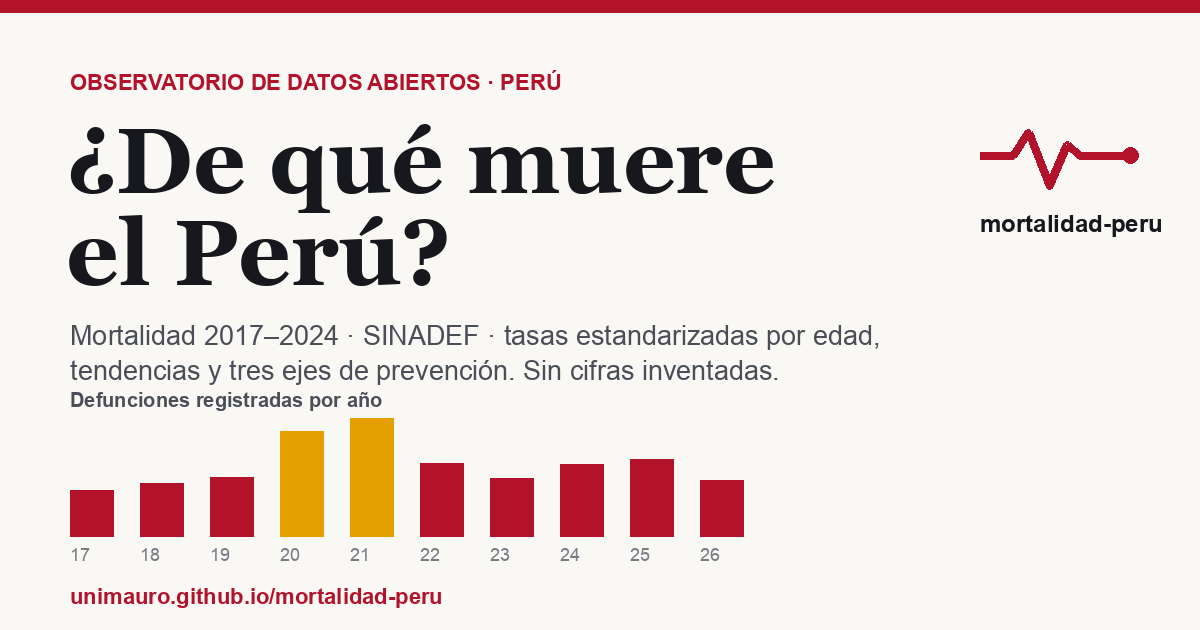
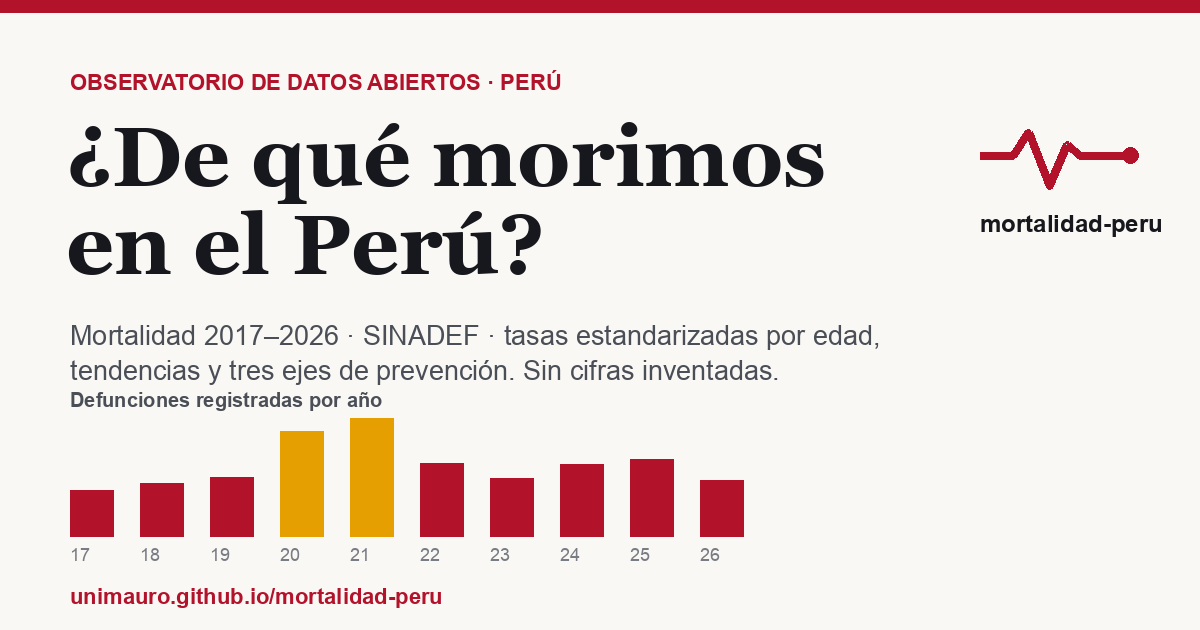
título: «¿De qué morimos en el Perú?» (hero, OG, metadatos) y años 2017–2026 en descripciones

Changed region(s): [[0.0617, 0.181, 0.7092, 0.4524], [0.2467, 0.5127, 0.2775, 0.5429]]

diff --git a/index.html b/index.html
@@ -4,22 +4,22 @@
 <meta charset="utf-8">
 <meta name="viewport" content="width=device-width,initial-scale=1,viewport-fit=cover">
 <title>Observatorio de Mortalidad del Perú</title>
-<meta name="description" content="¿De qué muere el Perú? Series anuales de mortalidad (SINADEF 2017–2024) con tasas estandarizadas por edad, tendencias y tres ejes de prevención: metabólico, criminalidad y accidentes. Datos oficiales, sin cifras inventadas.">
+<meta name="description" content="¿De qué morimos en el Perú? Series anuales de mortalidad (SINADEF 2017–2026) con tasas estandarizadas por edad, tendencias y tres ejes de prevención: metabólico, criminalidad y accidentes. Datos oficiales, sin cifras inventadas.">
 <link rel="canonical" href="https://unimauro.github.io/mortalidad-peru/">
 <meta name="theme-color" content="#b3122b">
 <!-- Open Graph -->
 <meta property="og:type" content="website">
 <meta property="og:locale" content="es_PE">
 <meta property="og:site_name" content="Observatorio de Mortalidad del Perú">
-<meta property="og:title" content="Observatorio de Mortalidad del Perú — ¿De qué muere el Perú?">
-<meta property="og:description" content="Series anuales 2017–2024 de SINADEF con tasas estandarizadas por edad, tendencias y ejes de prevención. Datos oficiales del MINSA e INEI.">
+<meta property="og:title" content="¿De qué morimos en el Perú? — Observatorio de Mortalidad">
+<meta property="og:description" content="Series anuales 2017–2026 de SINADEF con tasas estandarizadas por edad, tendencias y ejes de prevención. Datos oficiales del MINSA e INEI.">
 <meta property="og:url" content="https://unimauro.github.io/mortalidad-peru/">
 <meta property="og:image" content="https://unimauro.github.io/mortalidad-peru/assets/og.png">
 <meta property="og:image:width" content="1200">
 <meta property="og:image:height" content="630">
 <meta name="twitter:card" content="summary_large_image">
 <meta name="twitter:title" content="Observatorio de Mortalidad del Perú">
-<meta name="twitter:description" content="¿De qué muere el Perú? Series anuales de mortalidad con tasas estandarizadas por edad y ejes de prevención.">
+<meta name="twitter:description" content="¿De qué morimos en el Perú? Series anuales de mortalidad con tasas estandarizadas por edad y ejes de prevención.">
 <meta name="twitter:image" content="https://unimauro.github.io/mortalidad-peru/assets/og.png">
 <!-- Favicon -->
 <link rel="icon" href="assets/favicon.svg" type="image/svg+xml">
@@ -57,7 +57,7 @@
   <div class="wrap hero-grid">
     <div class="hero-text">
       <div class="kicker">Observatorio de datos abiertos · Perú</div>
-      <h1>¿De qué <em>muere</em><br>el&nbsp;Perú?</h1>
+      <h1>¿De qué <em>morimos</em><br>en el&nbsp;Perú?</h1>
       <p class="lead">Series anuales de mortalidad del Sistema Informático Nacional de Defunciones (SINADEF), con tasas estandarizadas por edad y tres ejes de prevención. Cada cifra es trazable a su fuente oficial; ninguna se inventa.</p>
       <div class="updated" title="Fecha de último procesamiento"><span class="pulse"></span> Datos oficiales SINADEF · <b id="dataSpan">—</b></div>
     </div>

diff --git a/pipeline/generar_imagenes.py b/pipeline/generar_imagenes.py
@@ -46,10 +46,10 @@ def og():
     # kicker
     d.text((70, 70), "OBSERVATORIO DE DATOS ABIERTOS · PERÚ", font=font(ARIAL_B, 22, ARIAL_B), fill=BRAND)
     # título
-    d.text((66, 108), "¿De qué muere", font=font(GEORGIA_B, 92, ARIAL_B), fill=INK)
-    d.text((66, 200), "el Perú?", font=font(GEORGIA_B, 92, ARIAL_B), fill=INK)
+    d.text((66, 108), "¿De qué morimos", font=font(GEORGIA_B, 84, ARIAL_B), fill=INK)
+    d.text((66, 196), "en el Perú?", font=font(GEORGIA_B, 84, ARIAL_B), fill=INK)
     # subtítulo
-    sub = ("Mortalidad 2017–2024 · SINADEF · tasas estandarizadas por edad,\n"
+    sub = ("Mortalidad 2017–2026 · SINADEF · tasas estandarizadas por edad,\n"
            "tendencias y tres ejes de prevención. Sin cifras inventadas.")
     d.multiline_text((70, 320), sub, font=font(ARIAL, 27), fill=(74, 78, 87), spacing=10)
 
